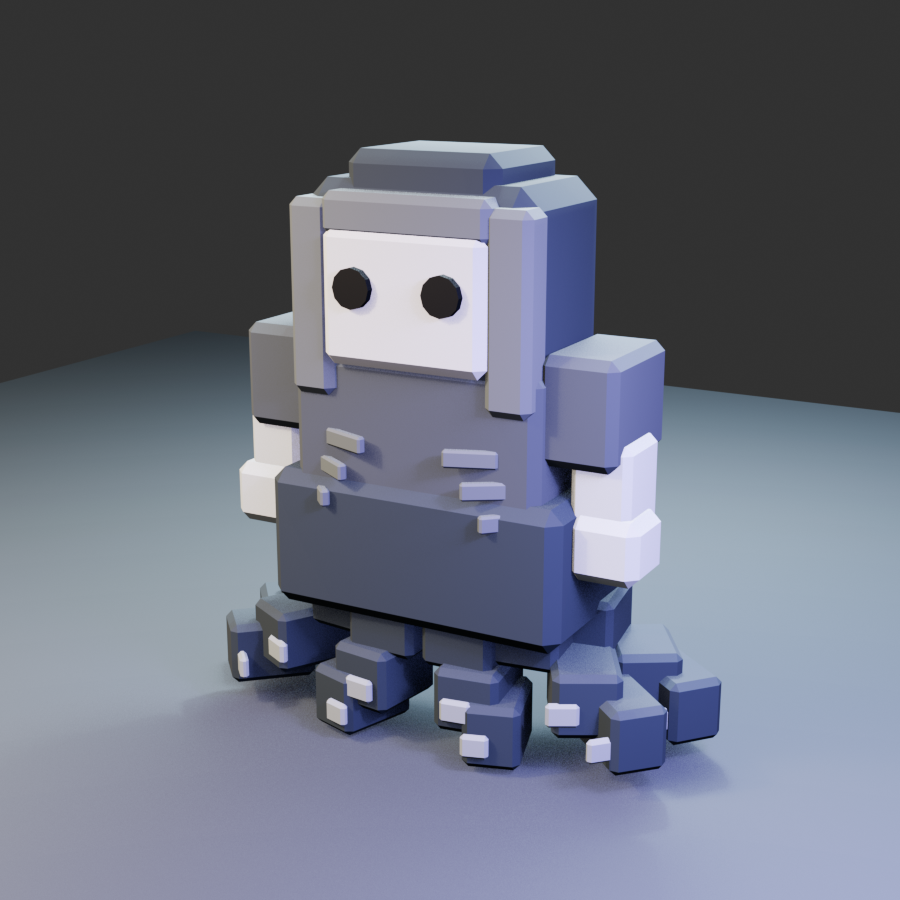
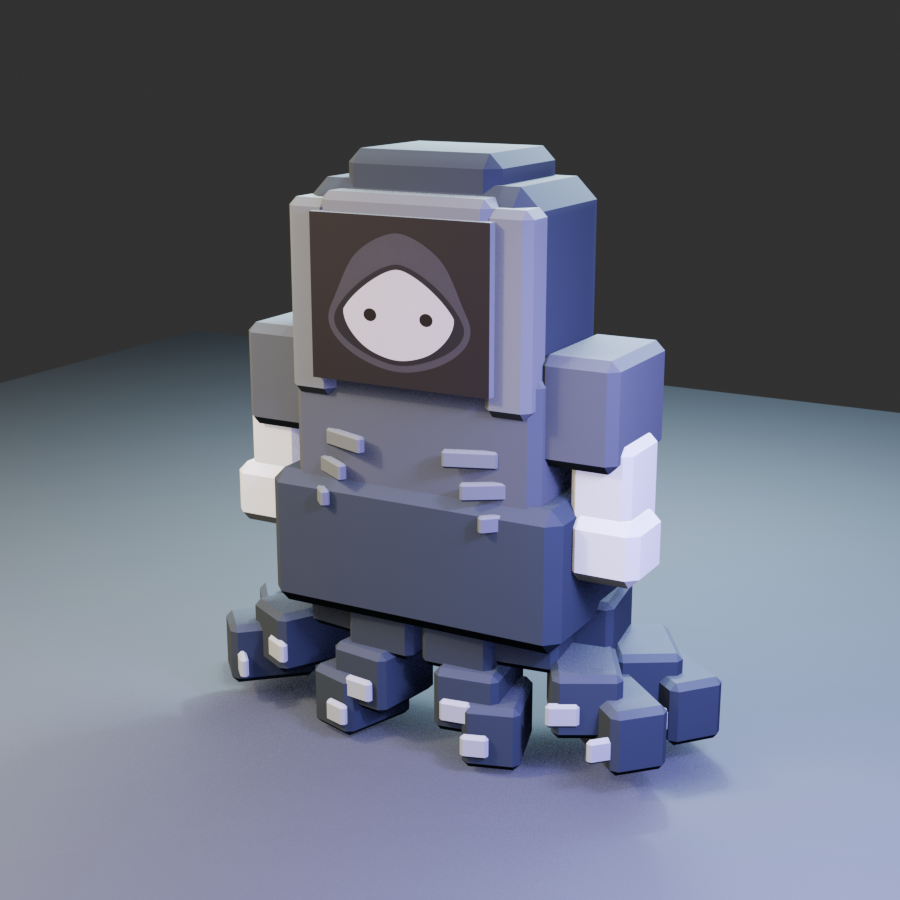
Use image-generated character face textures

Changed region(s): [[0.3422, 0.2178, 0.56, 0.4667]]

diff --git a/06_VOXEL_CHARACTER_LAB/app/character-catalog.ts b/06_VOXEL_CHARACTER_LAB/app/character-catalog.ts
@@ -54,8 +54,8 @@ export const CHARACTERS: CharacterCatalogEntry[] = [
     status: "ready",
     bodyType: "触手・浮遊",
     rigLabel: "TENTACLED / 8 PIVOTS",
-    note: "黒いフード付きローブ、人間の腕2本、6本の触手を維持。触手は位相をずらして動きます。",
-    modelUrl: "/models/takosan.glb?v=voxel-1",
+    note: "元画像準拠の顔テクスチャ、黒いフード付きローブ、人間の腕2本、6本の触手を維持。",
+    modelUrl: "/models/takosan.glb?v=face-texture-2",
     scale: 1.3,
     rotationY: Math.PI,
     rig: {
@@ -80,8 +80,8 @@ export const CHARACTERS: CharacterCatalogEntry[] = [
     status: "ready",
     bodyType: "小型・二足",
     rigLabel: "BIPED / 4 PIVOTS",
-    note: "大きな頭、丸メガネ、黒い横分け髪、紫シャツを維持。短い歩幅で動きます。",
-    modelUrl: "/models/yametaro.glb?v=voxel-1",
+    note: "元画像準拠の丸メガネ・頬・笑顔を顔テクスチャ化。黒い横分け髪と紫シャツを維持。",
+    modelUrl: "/models/yametaro.glb?v=face-texture-2",
     scale: 1.2,
     rotationY: Math.PI,
     rig: standardBipedRig,

diff --git a/06_VOXEL_CHARACTER_LAB/tools/build_yametaro_voxel_model.py b/06_VOXEL_CHARACTER_LAB/tools/build_yametaro_voxel_model.py
@@ -3,7 +3,6 @@
 from __future__ import annotations
 
 import argparse
-import math
 import os
 import sys
 
@@ -17,19 +16,20 @@ from voxel_character_kit import (  # noqa: E402
     RigGroup,
     VoxelRigDefinition,
     add_box,
-    add_cylinder,
     add_empty,
     add_idle_animation,
-    add_torus,
+    add_textured_front_panel,
     build_voxel_rig,
     ensure_parent,
     make_material,
+    make_texture_material,
     save_and_export,
 )
 
 
 def parse_args() -> argparse.Namespace:
     parser = argparse.ArgumentParser()
+    parser.add_argument("--face-texture", required=True)
     parser.add_argument("--output-glb", required=True)
     parser.add_argument("--output-blend", required=True)
     parser.add_argument("--preview", required=True)
@@ -37,21 +37,27 @@ def parse_args() -> argparse.Namespace:
     return parser.parse_args(script_args)
 
 
-def build_character() -> bpy.types.Object:
+def build_character(face_texture: str) -> bpy.types.Object:
     skin = make_material("YametaroVoxel_Skin", (1.0, 0.71, 0.47, 1.0), roughness=0.9)
     skin_shadow = make_material("YametaroVoxel_SkinShadow", (0.88, 0.55, 0.36, 1.0), roughness=0.9)
-    blush = make_material("YametaroVoxel_Blush", (1.0, 0.06, 0.33, 1.0), roughness=0.82)
     hair = make_material("YametaroVoxel_Hair", (0.012, 0.027, 0.034, 1.0), roughness=0.7)
     black = make_material("YametaroVoxel_Black", (0.005, 0.012, 0.016, 1.0), roughness=0.62)
     purple = make_material("YametaroVoxel_Shirt", (0.35, 0.27, 0.80, 1.0), roughness=0.88)
     purple_light = make_material("YametaroVoxel_Collar", (0.65, 0.61, 1.0, 1.0), roughness=0.9)
     pants = make_material("YametaroVoxel_Pants", (0.075, 0.09, 0.13, 1.0), roughness=0.86)
     shoes = make_material("YametaroVoxel_Shoes", (0.025, 0.035, 0.052, 1.0), roughness=0.78)
+    face_surface = make_texture_material(
+        "YametaroVoxel_FaceSurface",
+        face_texture,
+        image_name="YametaroVoxel_FaceAlbedo",
+        roughness=0.72,
+    )
 
     root = add_empty("YametaroVoxel_Root", (0.0, 0.0, 0.0))
     root["character"] = "Mushoku Yametaro"
     root["style"] = "large-head chibi voxel caricature"
     root["design_locks"] = "purple shirt,round glasses,black side-parted hair,chibi proportions"
+    root["face_workflow"] = "replaceable front-panel albedo texture"
 
     # Short biped body below an intentionally oversized head.
     for side in (-1, 1):
@@ -72,7 +78,7 @@ def build_character() -> bpy.types.Object:
     add_box("YametaroVoxel_SecondaryForearm", (-0.54, -0.03, 0.78), (0.22, 0.27, 0.28), skin, parent=root, bevel=0.03)
     add_box("YametaroVoxel_SecondaryHand", (-0.57, -0.08, 0.61), (0.25, 0.25, 0.22), skin_shadow, parent=root, bevel=0.05)
 
-    # Large square head, side-parted hair, circular glasses, and pink cheeks.
+    # Large square head and side-parted hair frame replaceable 2D face artwork.
     add_box("YametaroVoxel_Head", (0.0, 0.0, 1.62), (1.00, 0.62, 0.84), skin, parent=root, bevel=0.115)
     for side in (-1, 1):
         add_box(f"YametaroVoxel_Ear_{side}", (side * 0.53, -0.01, 1.58), (0.13, 0.22, 0.24), skin_shadow, parent=root, bevel=0.045)
@@ -80,41 +86,15 @@ def build_character() -> bpy.types.Object:
     add_box("YametaroVoxel_HairLeft", (-0.42, -0.01, 1.83), (0.19, 0.59, 0.45), hair, parent=root, bevel=0.035)
     add_box("YametaroVoxel_HairRight", (0.37, 0.02, 1.91), (0.27, 0.57, 0.31), hair, parent=root, bevel=0.035)
     add_box("YametaroVoxel_BangCenter", (-0.16, -0.325, 1.93), (0.32, 0.10, 0.32), hair, rotation=(0.0, 0.0, -0.26), parent=root, bevel=0.025)
-
-    for side in (-1, 1):
-        add_cylinder(
-            f"YametaroVoxel_Eye_{side}",
-            (side * 0.21, -0.337, 1.62),
-            0.048,
-            0.035,
-            black,
-            rotation=(math.pi / 2, 0.0, 0.0),
-            vertices=8,
-            parent=root,
-        )
-        add_torus(
-            f"YametaroVoxel_Glasses_{side}",
-            (side * 0.21, -0.365, 1.62),
-            0.17,
-            0.032,
-            black,
-            rotation=(math.pi / 2, 0.0, 0.0),
-            parent=root,
-        )
-        add_cylinder(
-            f"YametaroVoxel_Cheek_{side}",
-            (side * 0.33, -0.346, 1.38),
-            0.105,
-            0.028,
-            blush,
-            rotation=(math.pi / 2, 0.0, 0.0),
-            vertices=8,
-            parent=root,
-        )
-    add_box("YametaroVoxel_GlassesBridge", (0.0, -0.376, 1.62), (0.10, 0.035, 0.035), black, parent=root)
-    add_box("YametaroVoxel_Nose", (0.0, -0.355, 1.49), (0.065, 0.035, 0.055), skin_shadow, parent=root, bevel=0.01)
-    add_box("YametaroVoxel_SmileLeft", (-0.05, -0.365, 1.31), (0.13, 0.035, 0.045), black, rotation=(0.0, 0.0, -0.28), parent=root, bevel=0.01)
-    add_box("YametaroVoxel_SmileRight", (0.05, -0.365, 1.31), (0.13, 0.035, 0.045), black, rotation=(0.0, 0.0, 0.28), parent=root, bevel=0.01)
+    add_textured_front_panel(
+        "YametaroVoxel_FacePanel",
+        (0.0, -0.338, 1.56),
+        (0.88, 0.045, 0.66),
+        skin,
+        face_surface,
+        parent=root,
+        uv_name="YametaroVoxelFaceUV",
+    )
 
     build_voxel_rig(
         root,
@@ -136,7 +116,7 @@ def main() -> None:
     for path in (args.output_glb, args.output_blend, args.preview):
         ensure_parent(path)
     bpy.ops.wm.read_factory_settings(use_empty=True)
-    build_character()
+    build_character(args.face_texture)
     save_and_export(
         output_glb=args.output_glb,
         output_blend=args.output_blend,

diff --git a/06_VOXEL_CHARACTER_LAB/tools/voxel_character_kit.py b/06_VOXEL_CHARACTER_LAB/tools/voxel_character_kit.py
@@ -74,6 +74,31 @@ def make_material(
     return mat
 
 
+def make_texture_material(
+    name: str,
+    path: str,
+    *,
+    image_name: str,
+    roughness: float = 0.62,
+) -> bpy.types.Material:
+    """Create an embedded sRGB albedo material for replaceable face art."""
+    mat = bpy.data.materials.new(name)
+    mat.use_nodes = True
+    bsdf = mat.node_tree.nodes.get("Principled BSDF")
+    bsdf.inputs["Roughness"].default_value = roughness
+    image = bpy.data.images.load(os.path.abspath(path), check_existing=True)
+    image.name = image_name
+    image.colorspace_settings.name = "sRGB"
+    image.pack()
+    texture = mat.node_tree.nodes.new("ShaderNodeTexImage")
+    texture.name = f"{image_name}_Texture"
+    texture.image = image
+    texture.interpolation = "Closest"
+    texture.extension = "EXTEND"
+    mat.node_tree.links.new(texture.outputs["Color"], bsdf.inputs["Base Color"])
+    return mat
+
+
 def add_empty(name: str, location: tuple[float, float, float], parent=None) -> bpy.types.Object:
     obj = bpy.data.objects.new(name, None)
     obj.location = location
@@ -112,6 +137,33 @@ def add_box(
     for polygon in obj.data.polygons:
         polygon.use_smooth = False
     return obj
+
+
+def add_textured_front_panel(
+    name: str,
+    location: tuple[float, float, float],
+    dimensions: tuple[float, float, float],
+    edge_mat: bpy.types.Material,
+    surface_mat: bpy.types.Material,
+    *,
+    parent=None,
+    uv_name: str = "VoxelFaceUV",
+) -> bpy.types.Object:
+    """Build a thin box whose camera-facing -Y side displays one full texture."""
+    width, _depth, height = dimensions
+    panel = add_box(name, location, dimensions, edge_mat, parent=parent)
+    panel.data.materials.append(surface_mat)
+    uv_layer = panel.data.uv_layers.active or panel.data.uv_layers.new(name=uv_name)
+    for polygon in panel.data.polygons:
+        if polygon.normal.y < -0.9:
+            polygon.material_index = 1
+            for loop_index in polygon.loop_indices:
+                vertex = panel.data.vertices[panel.data.loops[loop_index].vertex_index].co
+                uv_layer.data[loop_index].uv = (
+                    0.5 + vertex.x / width,
+                    0.5 + vertex.z / height,
+                )
+    return panel
 
 
 def add_cylinder(

diff --git a/06_VOXEL_CHARACTER_LAB/tools/build_takosan_voxel_model.py b/06_VOXEL_CHARACTER_LAB/tools/build_takosan_voxel_model.py
@@ -3,7 +3,6 @@
 from __future__ import annotations
 
 import argparse
-import math
 import os
 import sys
 
@@ -17,18 +16,20 @@ from voxel_character_kit import (  # noqa: E402
     RigGroup,
     VoxelRigDefinition,
     add_box,
-    add_cylinder,
     add_empty,
     add_idle_animation,
+    add_textured_front_panel,
     build_voxel_rig,
     ensure_parent,
     make_material,
+    make_texture_material,
     save_and_export,
 )
 
 
 def parse_args() -> argparse.Namespace:
     parser = argparse.ArgumentParser()
+    parser.add_argument("--face-texture", required=True)
     parser.add_argument("--output-glb", required=True)
     parser.add_argument("--output-blend", required=True)
     parser.add_argument("--preview", required=True)
@@ -69,19 +70,24 @@ def add_tentacle(
     return RigGroup((x, y, 0.66), (prefix,))
 
 
-def build_character() -> bpy.types.Object:
+def build_character(face_texture: str) -> bpy.types.Object:
     robe = make_material("TakosanVoxel_Robe", (0.035, 0.052, 0.067, 1.0), roughness=0.8)
     robe_mid = make_material("TakosanVoxel_RobeMid", (0.075, 0.095, 0.11, 1.0), roughness=0.84)
     robe_edge = make_material("TakosanVoxel_RobeEdge", (0.14, 0.17, 0.18, 1.0), roughness=0.75)
-    face = make_material("TakosanVoxel_Face", (0.78, 0.84, 0.84, 1.0), roughness=0.88)
     hand = make_material("TakosanVoxel_Hands", (0.64, 0.72, 0.73, 1.0), roughness=0.86)
-    eyes = make_material("TakosanVoxel_Eyes", (0.002, 0.004, 0.006, 1.0), roughness=0.55)
     underside = make_material("TakosanVoxel_TentacleUnderside", (0.33, 0.39, 0.40, 1.0), roughness=0.9)
+    face_surface = make_texture_material(
+        "TakosanVoxel_FaceSurface",
+        face_texture,
+        image_name="TakosanVoxel_FaceAlbedo",
+        roughness=0.72,
+    )
 
     root = add_empty("TakosanVoxel_Root", (0.0, 0.0, 0.0))
     root["character"] = "Takosan"
     root["style"] = "hooded tentacled voxel caricature"
     root["design_locks"] = "black hooded robe,tentacles,human arms,white face,round black eyes"
+    root["face_workflow"] = "replaceable front-panel albedo texture"
 
     # Six tentacles form a readable base from the fixed game camera.
     tentacle_specs = (
@@ -105,18 +111,15 @@ def build_character() -> bpy.types.Object:
     add_box("TakosanVoxel_HoodLeft", (-0.40, -0.26, 1.72), (0.18, 0.16, 0.72), robe_edge, parent=root, bevel=0.03)
     add_box("TakosanVoxel_HoodRight", (0.40, -0.26, 1.72), (0.18, 0.16, 0.72), robe_edge, parent=root, bevel=0.03)
     add_box("TakosanVoxel_HoodBrow", (0.0, -0.28, 2.03), (0.68, 0.15, 0.16), robe_edge, parent=root, bevel=0.03)
-    add_box("TakosanVoxel_Face", (0.0, -0.335, 1.74), (0.66, 0.075, 0.50), face, parent=root, bevel=0.09)
-    for side in (-1, 1):
-        add_cylinder(
-            f"TakosanVoxel_Eye_{side}",
-            (side * 0.18, -0.385, 1.78),
-            0.075,
-            0.035,
-            eyes,
-            rotation=(math.pi / 2, 0.0, 0.0),
-            vertices=12,
-            parent=root,
-        )
+    add_textured_front_panel(
+        "TakosanVoxel_FacePanel",
+        (0.0, -0.355, 1.74),
+        (0.72, 0.045, 0.60),
+        robe_edge,
+        face_surface,
+        parent=root,
+        uv_name="TakosanVoxelFaceUV",
+    )
 
     # Stepped robe glyphs echo the curled decoration in the reference image.
     for side in (-1, 1):
@@ -164,7 +167,7 @@ def main() -> None:
     for path in (args.output_glb, args.output_blend, args.preview):
         ensure_parent(path)
     bpy.ops.wm.read_factory_settings(use_empty=True)
-    build_character()
+    build_character(args.face_texture)
     save_and_export(
         output_glb=args.output_glb,
         output_blend=args.output_blend,

diff --git a/06_VOXEL_CHARACTER_LAB/model_source/textures/IMAGEGEN_FACE_PROMPTS.md b/06_VOXEL_CHARACTER_LAB/model_source/textures/IMAGEGEN_FACE_PROMPTS.md
@@ -1,0 +1,31 @@
+# Face texture generation
+
+Both textures were created with Codex `imagegen` in reference-guided generation
+mode, using the corresponding image in `../../../02_CHARACTERS/` as the
+authoritative character design.
+
+## Takosan
+
+Reference: `../../../02_CHARACTERS/Takosan.png`
+
+Prompt summary: generate a square, orthographic face albedo preserving the pale
+cool-gray mask, exactly two small black round eyes, blank expression, and the
+near-black hood opening; exclude the body, tentacles, text, and extra features.
+A second targeted pass reduced the eye diameter and flattened the presentation
+to better match the reference.
+
+Output: `takosan_face_albedo.png`
+
+## Yametaro
+
+Reference: `../../../02_CHARACTERS/Yametaro.jpg`
+
+Prompt summary: generate a square, orthographic face albedo preserving the
+oversized black round glasses, white lens interiors with small black eyes, vivid
+pink round cheeks, tiny nose, and small curved smile; exclude hair because it
+remains 3D geometry, plus ears, shirt, text, and extra features.
+
+Output: `yametaro_face_albedo.png`
+
+These are source albedo assets. Blender packs them into each `.blend` and embeds
+them in the exported `.glb`, so the web viewer does not load loose textures.

diff --git a/06_VOXEL_CHARACTER_LAB/model_source/README.md b/06_VOXEL_CHARACTER_LAB/model_source/README.md
@@ -3,10 +3,10 @@
 このディレクトリには、Voxel Character Lab用キャラクターの編集可能な
 Blenderマスターと確認用プレビューを保存します。
 
-| キャラクター | Blenderマスター | Web用GLB | リグ |
-|---|---|---|---|
-| たこさん | `takosan_voxel_master.blend` | `../public/models/takosan.glb` | 両腕＋触手6本 |
-| 無職やめ太郎 | `yametaro_voxel_master.blend` | `../public/models/yametaro.glb` | 両腕＋両脚 |
+| キャラクター | Blenderマスター | Web用GLB | 顔テクスチャ | リグ |
+|---|---|---|---|---|
+| たこさん | `takosan_voxel_master.blend` | `../public/models/takosan.glb` | `textures/takosan_face_albedo.png` | 両腕＋触手6本 |
+| 無職やめ太郎 | `yametaro_voxel_master.blend` | `../public/models/yametaro.glb` | `textures/yametaro_face_albedo.png` | 両腕＋両脚 |
 
 どちらも第三者の3D素体を使わず、プロジェクトのキャラクター参照画像を基に
 Blender Pythonで生成したオリジナル形状です。
@@ -18,3 +18,12 @@ Blender Pythonで生成したオリジナル形状です。
 
 共通形状・材質・リグ処理は `../tools/voxel_character_kit.py`、キャラクター固有の
 形状は各 `build_*_voxel_model.py` に分離しています。
+
+## 顔テクスチャ方式
+
+顔の模様は目・メガネ・頬などを別メッシュにせず、頭部前面の薄い共通UV
+パネルへ1枚のアルベドとして貼っています。テクスチャはBlenderファイルに
+パックされ、GLBにも埋め込まれます。顔を差し替える場合は同じ正方形比率の
+画像を用意して各ビルドコマンドの `--face-texture` に渡します。
+
+生成条件と参照元は `textures/IMAGEGEN_FACE_PROMPTS.md` を参照してください。

diff --git a/06_VOXEL_CHARACTER_LAB/README.md b/06_VOXEL_CHARACTER_LAB/README.md
@@ -28,12 +28,17 @@ npm test
 
 ```bash
 blender --background --python tools/build_takosan_voxel_model.py -- \
+  --face-texture model_source/textures/takosan_face_albedo.png \
   --output-glb public/models/takosan.glb \
   --output-blend model_source/takosan_voxel_master.blend \
   --preview model_source/takosan_voxel_preview.png
 
 blender --background --python tools/build_yametaro_voxel_model.py -- \
+  --face-texture model_source/textures/yametaro_face_albedo.png \
   --output-glb public/models/yametaro.glb \
   --output-blend model_source/yametaro_voxel_master.blend \
   --preview model_source/yametaro_voxel_preview.png
 ```
+
+顔は共通の前面UVパネルにimagegen生成アルベドを貼る方式です。目やメガネを
+立体パーツで再現せず、元画像の顔つきを保ったままテクスチャ1枚だけ交換できます。